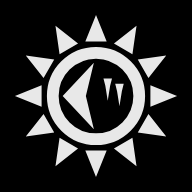
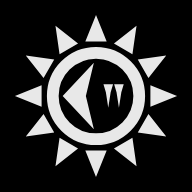
Tusinasää-kuvake: pystykiilat hampaina keskelle samalle korkeudelle
Käyttäjän vaihtoehdoista (hampaat keskellä / pieni haarukkaveitsi oikealla
ylhäällä, ei korkeuseroa) valittu hampaat: pienet pyöreäpäiset katosivat
16 px:n välilehdessä. Lähin yläkulma 1,3 yksikköä kehän sisäreunasta.

Claude-Session: https://claude.ai/code/session_01FjT3WtsPDemhTRazzKC8dV

Changed region(s): [[0.5312, 0.4062, 0.6562, 0.5625]]

diff --git a/android/scripts/tusinasaa-kuvake.js b/android/scripts/tusinasaa-kuvake.js
@@ -3,8 +3,8 @@
 // kulmakiila (10) ja kaksi pystykiilaa (1 + 1). Kulmakiila täyttää kehän sisäympyrän vasemman puolikkaan (kärki ja
 // selän kulmat ympyrällä, selkä keskilinjan tuntumassa); pystykiilat ovat huomattavasti pienemmät oikealla puolikkaalla,
 // jolloin keskilinjan eri puolille syntyy päivän ja yön vaikutelma (käyttäjän ajatus). Pystykiilojen varsi kapenee
-// kärkeen ja jälkimmäinen on porrastettu alemmas: rinnakkaiset pyöreäpäiset varret keskellä näyttivät haarukalta ja
-// veitseltä lautasella (käyttäjä 17.11.2026).
+// kärkeen ("hampaat"), ja ne ovat samalla korkeudella oikean puolikkaan keskellä: pyöreäpäiset varret näyttivät
+// haarukalta ja veitseltä, ja porrastus hylättiin (käyttäjä 17.11.2026).
 // Sama muoto kaikkialla (välilehti, kotivalikko, linkin esikatselu, Android); vain rajaus vaihtelee.
 //
 // Tuottaa:
@@ -40,7 +40,7 @@ const U = R - KEHA / 2 - VALI;                   // merkkien ympyrä
 // Kulmakiila: kärki vasemmalla ympyrällä, selkä x = SELKA (kulmat ympyrällä), lovi LOVI selästä sisään.
 const SELKA = -.4, LOVI = 1.5;
 // Pystykiilat: keskikohdat [x, y] (y negatiivinen ylös), koko korkeus, pään leveys ja korkeus, varren leveys kaulassa.
-const PYST = [[2.2, -1.2], [4.4, -.2]], PYST_K = 4.2, PAA = 1.6, PAA_K = 1.4, VARSI = .9;
+const PYST = [[2.3, 0], [4.3, 0]], PYST_K = 4.4, PAA = 1.8, PAA_K = 1.5, VARSI = .9;
 const KARKI = R + KEHA / 2 + RAKO + KOLMIO_K;    // kolmioiden kärkien säde (15,2)
 
 const n = x => +x.toFixed(3);
